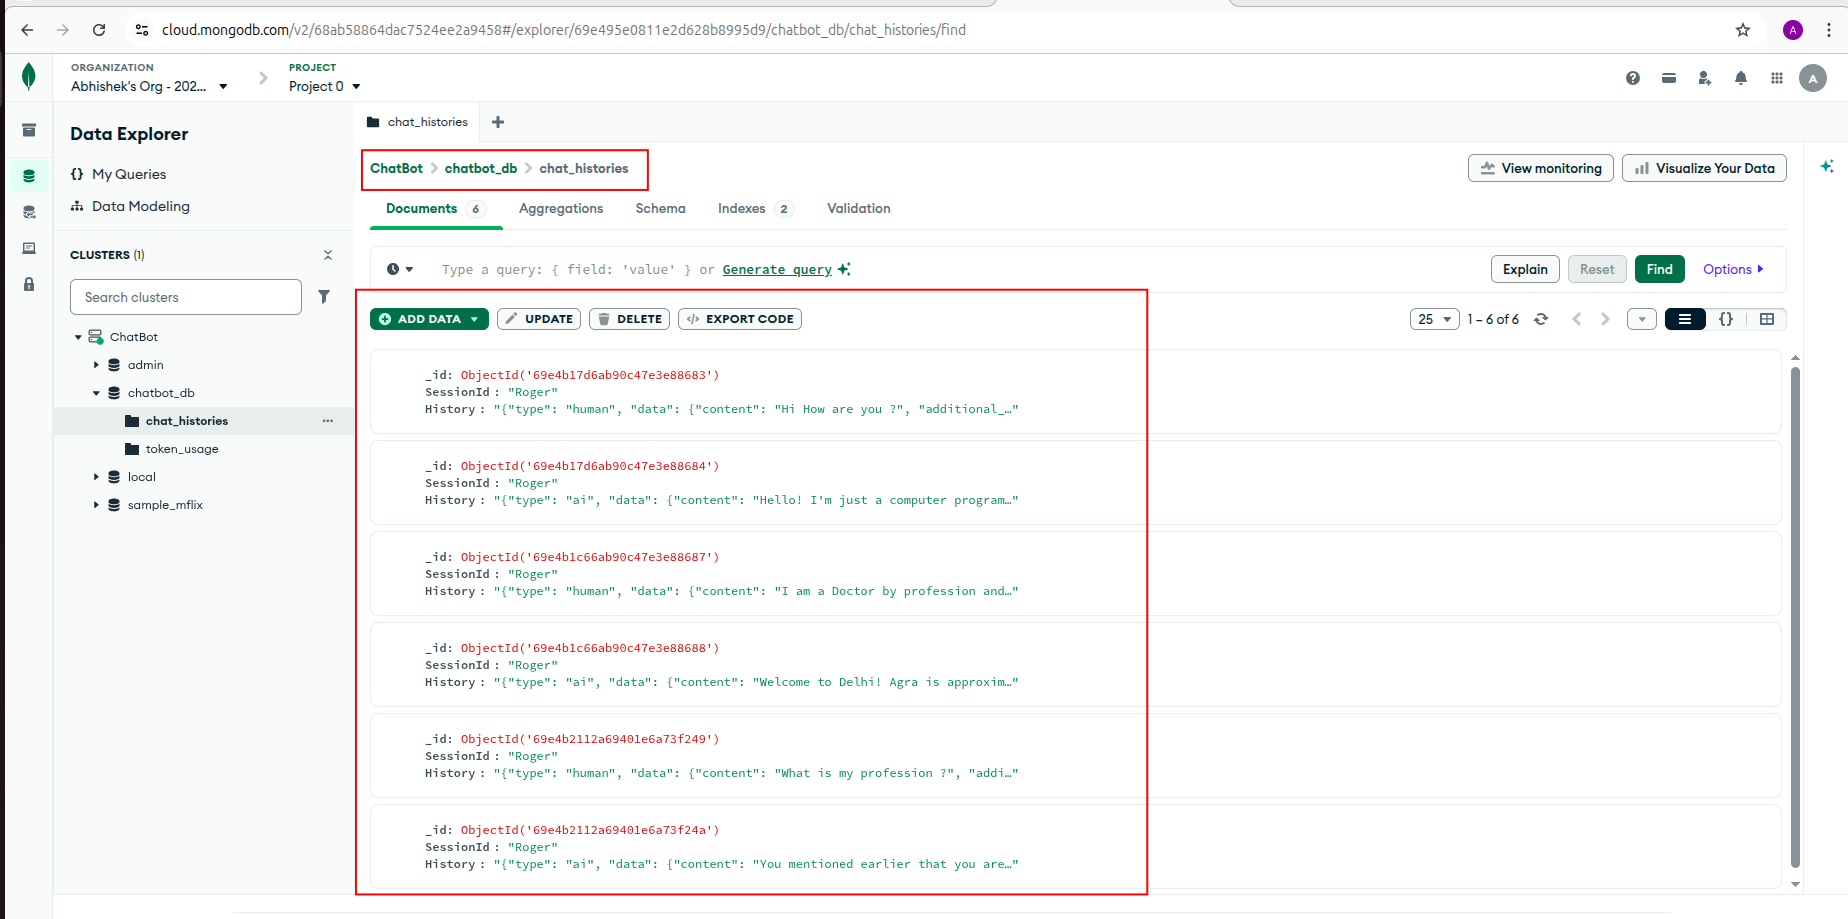
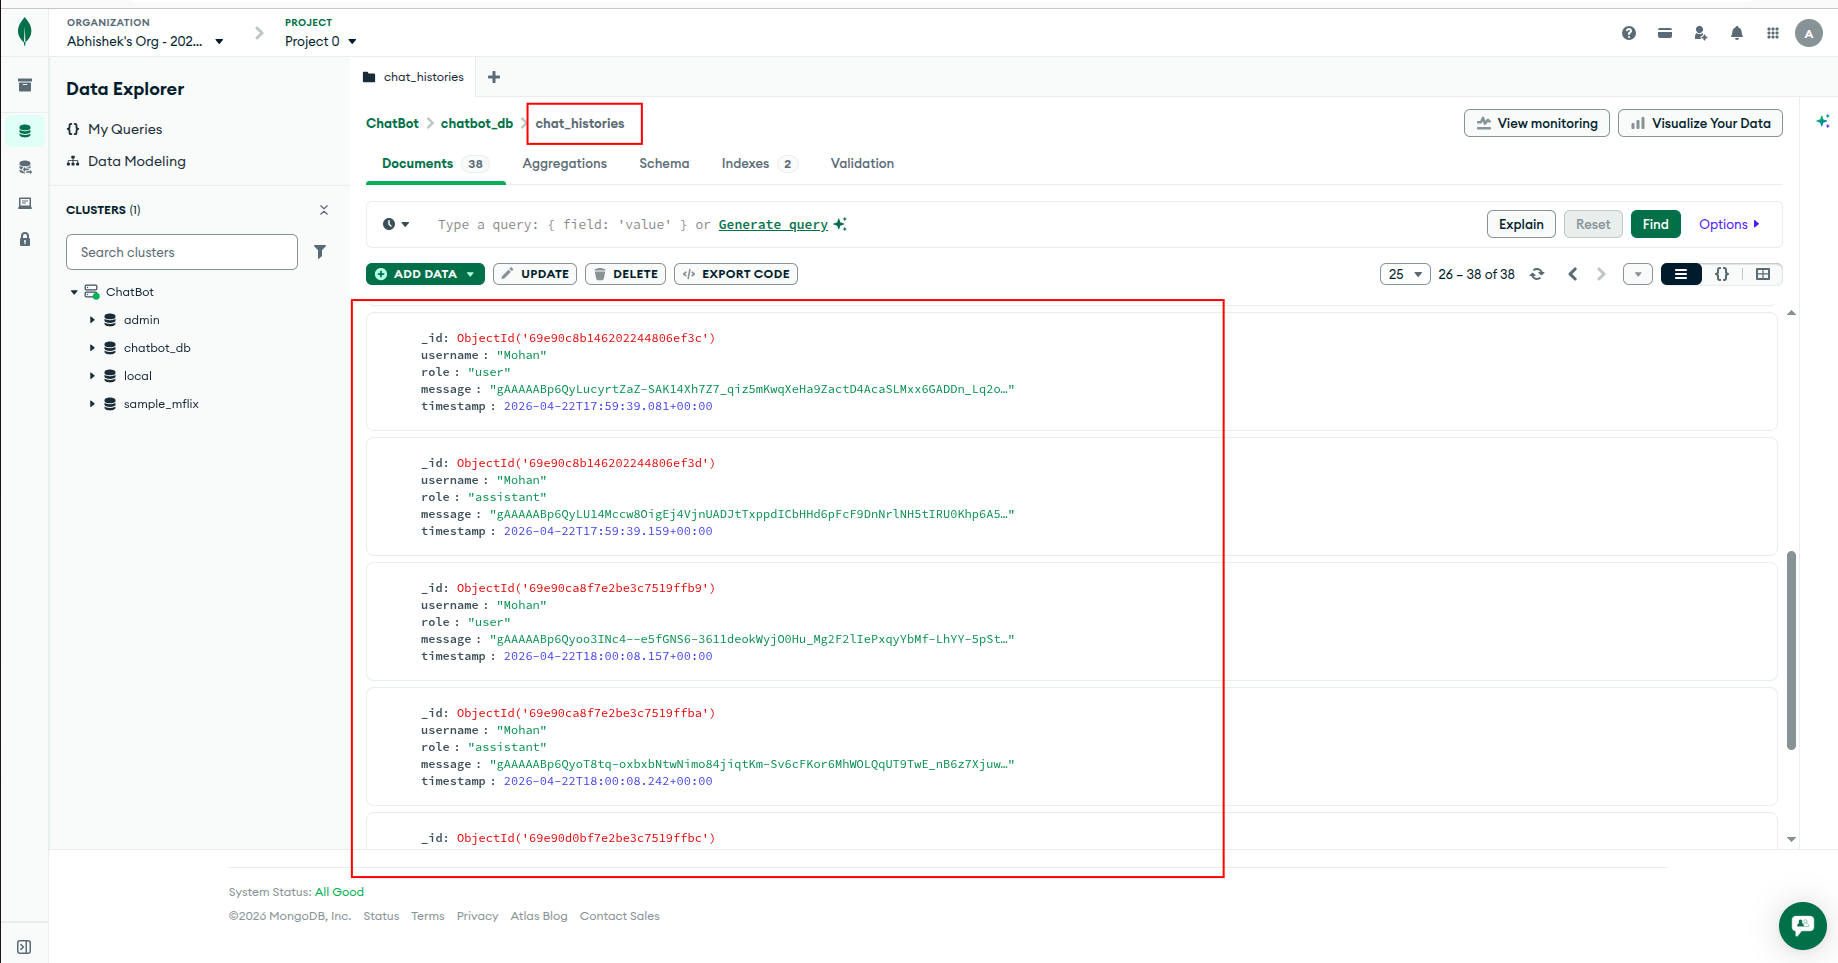
updated repo with encryption

diff --git a/01-ChatBot-with-memory/src/database.py b/01-ChatBot-with-memory/src/database.py
@@ -4,6 +4,7 @@ from datetime import datetime, timezone
 from dotenv import load_dotenv
 from pymongo import MongoClient
 from langchain_mongodb import MongoDBChatMessageHistory
+from src.encryption import encrypt, decrypt 
 
 load_dotenv()
 
@@ -26,28 +27,64 @@ def connect():
         print("-> Could not connect to MongoDB")
         sys.exit(1)
 
+# Save chat message (ENCRYPTED)
+
+def save_message(client, username, role, message):
+    client[DB_NAME][CHAT_COL].insert_one({
+        "username": username,
+        "role": role,  
+        "message": encrypt(message),
+        "timestamp": datetime.now(timezone.utc)
+    })
+
 # Function to get chat history from MongoDB database
 
-def get_history(username):
-    return MongoDBChatMessageHistory(
-        connection_string=os.getenv("MONGODB_URI"),
-        session_id=username,
-        database_name=DB_NAME,
-        collection_name=CHAT_COL,
-    )
+def get_history(client, username, limit=20):
+    """
+    Fetch chat history for a user, decrypt messages,
+    and return in LLM-friendly format.
+    """
+
+    # Fetch records from MongoDB
+    records = client[DB_NAME][CHAT_COL].find(
+        {"username": username}
+    ).sort("timestamp", 1).limit(limit)
+
+    #  Prepare output list
+    history = []
+
+    #  Loop through each record
+    for record in records:
+
+        # Decrypt message safely
+        try:
+            message_text = decrypt(record["message"])
+        except Exception:
+            # If message is not encrypted (old data), use as is
+            message_text = record["message"]
+
+        #  Append in LLM format
+        history.append({
+            "role": record["role"],       # "user" or "assistant"
+            "content": message_text       # decrypted message
+        })
+
+    # Return final chat history
+    return history
 
 # Function to save token usage 
 
 def save_tokens(client, username, user_input, cb):
     client[DB_NAME][TOKEN_COL].insert_one({
-        "username"          : username,
+        "username"          : username,            
         "timestamp"         : datetime.now(timezone.utc),
-        "user_message"      : user_input,
+        "user_message"      : encrypt(user_input),      # Encrypted message
         "prompt_tokens"     : cb.prompt_tokens,
         "completion_tokens" : cb.completion_tokens,
         "total_tokens"      : cb.total_tokens,
         "cost_usd"          : cb.total_cost,
     })
+   
 
 # Function to get summary of token usage and cost 
 

diff --git a/01-ChatBot-with-memory/src/chain.py b/01-ChatBot-with-memory/src/chain.py
@@ -1,38 +1,69 @@
 from langchain_core.prompts import ChatPromptTemplate, MessagesPlaceholder
 from langchain_core.output_parsers import StrOutputParser
-from langchain_core.runnables.history import RunnableWithMessageHistory
 from langchain_community.callbacks import get_openai_callback
 from src.llm import get_llm
-from src.database import get_history, save_tokens
+from src.database import get_history, save_message, save_tokens
 
 
-# Build Chain
+# Build Chain function
 
 def build_chain():
+    """
+    Creates the LLM chain.
+
+    Structure:
+    - System message (instruction)
+    - Chat history (multi-turn context)
+    - Current user input
+    """
+
+    # prompt
     prompt = ChatPromptTemplate.from_messages([
         ("system", "You are a helpful assistant."),
-        MessagesPlaceholder("history"),
-        ("human", "{input}"),
+        MessagesPlaceholder("history"),   # Inject past conversation here
+        ("human", "{input}"),             # Current user input
     ])
 
+    # model
     model = get_llm()
     
+    # chain
     chain = prompt | model | StrOutputParser()
 
-    return RunnableWithMessageHistory(
-        chain,
-        get_history,
-        input_messages_key="input",
-        history_messages_key="history",
-    )
+    return chain
 
-# Chat
+
+# Chat Function 
 
 def chat(chain, client, username, user_input):
+    """
+    Handles one full chat turn:
+    1. Load previous chat history (decrypted)
+    2. Send history + current input to LLM
+    3. Save user + AI messages (encrypted)
+    4. Track token usage
+    """
+
+    # Get previous chat history
+    history = get_history(client, username, limit=20)
+
+    #  Call LLM with history
+    # get_openai_callback tracks token usage
+    
     with get_openai_callback() as cb:
-        response = chain.invoke(
-            {"input": user_input},
-            config={"configurable": {"session_id": username}},
-        )
+        response = chain.invoke({
+            "input": user_input,
+            "history": history
+        })
+
+    # Save messages (ENCRYPTED)
+    # Save AFTER LLM call to avoid duplication in history
+
+    save_message(client, username, "user", user_input)
+    save_message(client, username, "assistant", response)
+
+    #  Save token usage
     save_tokens(client, username, user_input, cb)
+
+    #  Return response
     return response, cb

diff --git a/01-ChatBot-with-memory/src/encryption.py b/01-ChatBot-with-memory/src/encryption.py
@@ -1,0 +1,14 @@
+import os
+from cryptography.fernet import Fernet
+
+def get_cipher():
+    key = os.getenv("ENCRYPTION_KEY")
+    if not key:
+        raise Exception("ENCRYPTION_KEY not found in environment.")
+    return Fernet(key.encode())
+
+def encrypt(text: str) -> str:
+    return get_cipher().encrypt(text.encode()).decode()
+
+def decrypt(text: str) -> str:
+    return get_cipher().decrypt(text.encode()).decode()

diff --git a/01-ChatBot-with-memory/src/llm.py b/01-ChatBot-with-memory/src/llm.py
@@ -6,6 +6,10 @@ load_dotenv()
 
 def get_llm():
 
-    model = ChatOpenAI(model="gpt-4o")
-    
-    return model
+    llm = ChatOpenAI(
+        model="gpt-4.1-nano",
+        temperature=0.5,
+        max_tokens=512
+    )
+                    
+    return llm

diff --git a/01-ChatBot-with-memory/generate_encryption_key.py b/01-ChatBot-with-memory/generate_encryption_key.py
@@ -1,0 +1,7 @@
+from cryptography.fernet import Fernet
+
+encryption_key=Fernet.generate_key().decode()
+
+print("===============================")
+print(f"ENCRYPTION_KEY={encryption_key}")
+print("===============================")

diff --git a/01-ChatBot-with-memory/README.md b/01-ChatBot-with-memory/README.md
@@ -4,19 +4,17 @@
 
 ## About:
 
-A production-grade chatbot that remembers conversations across sessions using MongoDB. Built with LangChain, OpenAI GPT-4o, and tracked with LangSmith.
+- A production-grade conversational AI chatbot built using **LangChain**, powered by **OpenAI’s GPT-4.1-nano** model
 
----
+- Maintains conversation context across sessions so users can resume chats seamlessly
 
-## What This Does
+- Stores chat history in **MongoDB** for persistence and retrieval
 
-Most chatbots forget everything when you close the window. This one doesn't.
+- **Encrypts** messages before storage and **decrypts** them only when needed, ensuring data is not saved in plain text
 
-- Each user has their own persistent conversation history stored in MongoDB
-- When a user returns, the LLM picks up exactly where it left off
-- Every message tracks token usage and cost
-- All LLM calls are traced end-to-end via LangSmith
+- Tracks **token usage** and associated cost for every interaction
 
+- Provides end-to-end tracing of LLM calls using **LangSmith**
 ---
 
 ## Live Demo
@@ -26,15 +24,17 @@ Most chatbots forget everything when you close the window. This one doesn't.
 ---
 ## Tech Stack
 
-| Component       | Tool                        |
-|-----------------|-----------------------------|
-| LLM             | OpenAI GPT-4o               |
-| Framework       | LangChain + LCEL            |
-| Memory Store    | MongoDB Atlas               |
-| Observability   | LangSmith                   |
-| Terminal UI     | Python CLI                  |
-| Web UI          | Streamlit                   |
-| Containerisation| Docker                      |
+| Component                     | Tool                                     |
+| -------------------------------- | --------------------------------- |
+| LLM                                   | OpenAI GPT-4.1-nano     |
+| Framework                      | LangChain (LCEL)              |
+| Memory Store                | MongoDB Atlas                 |
+| Encryption                      | cryptography (Fernet - AES-based) |
+| Observability                 | LangSmith                           |
+| Backend Interface       | Python (CLI)                         |
+| Web Interface              | Streamlit                                |
+| Containerization         | Docker                                    |
+
 
 ---
 
@@ -42,17 +42,18 @@ Most chatbots forget everything when you close the window. This one doesn't.
 
 ```
 01-conversational-ai-with-persistent-memory/
-├── chatbot.py                -> run in terminal
-├── app.py                       -> run in browser (Streamlit)
-├── requirements.txt   -> dependency requierements
-├── example.env           -> copy this to .env and fill in keys
-├── Dockerfile      
+├── chatbot.py                     -> Entry point for terminal-based chatbot
+├── app.py                            -> Streamlit web application
+├── requirements.txt         -> Python dependencies
+├── example.env                 -> Environment variables template (copy to .env)
+├── Dockerfile                      -> Containerization setup
 ├── README.md
 └── src/
     ├── __init__.py
-    ├── llm.py                 -> LLM setup (swap models here)
-    ├── database.py     -> MongoDB connection + operations
-    └── chain.py            -> LangChain chain + history logic
+    ├── llm.py                          -> LLM configuration and initialization
+    ├── database.py              -> MongoDB connection, encrypted storage, and retrieval
+    ├── encryption.py           -> Fernet-based encryption and decryption utilities
+    └── chain.py                     -> LangChain pipeline and chat logic
 ```
 
 ---
@@ -98,6 +99,11 @@ uv pip install -r requirements.txt
 cp example .env .env
 ```
 
+* Generate encryption key  and add in .env 
+```
+python generate_encryption_key.py
+
+```
 * Fill in your `.env`:
 
 ```
@@ -115,6 +121,11 @@ LANGCHAIN_TRACING_V2=true
 LANGCHAIN_API_KEY=lsv2_******************************
 LANGCHAIN_PROJECT=conversational-ai-with-persistent-memory
 LANGCHAIN_ENDPOINT=https://api.smith.langchain.com
+
+# Encryption Key
+
+ENCRYPTION_KEY=your-generated-fernet-key-here
+
 ```
 ### 4. Setup MongoDB Database
 
@@ -194,28 +205,8 @@ streamlit run app.py
 <img src="images/20.png" width="1080" height="480">
 </p>
 
-### LangSmith Observability:
 
-<p align="left">
-<img src="images/21.png" width="1080" height="480">
-</p>
-
-### MongoDB:
-
-* **Chat_histories**
-
-<p align="left">
-<img src="images/22.png" width="1080" height="480">
-</p>
-
-* **token_usage**
-
-<p align="left">
-<img src="images/23.png" width="1080" height="480">
-</p>
-
-
-## 7. Dockerization
+## 7. Containerization
 
 * Build Docker image
 ```
